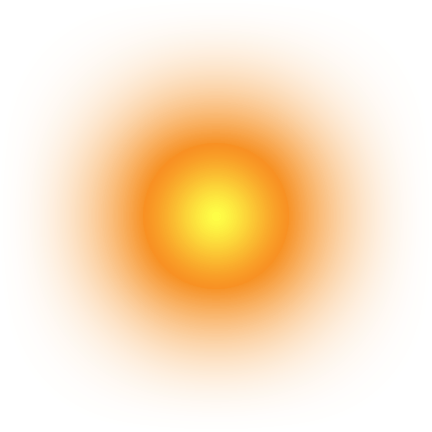
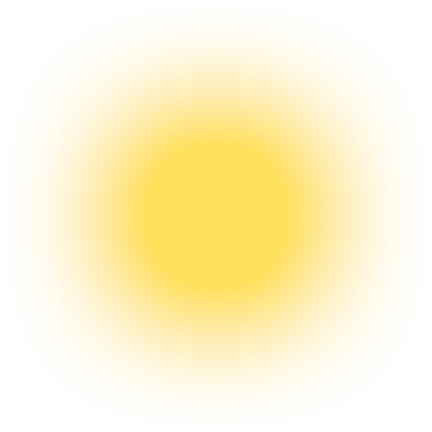
fix: relative start positions, move with transform & better sun image

Changed region(s): [[0.1806, 0.1806, 0.8125, 0.8125]]

diff --git a/index.js b/index.js
@@ -4,21 +4,16 @@ const pig = document.getElementById('pig')
 const field = document.getElementById('field')
 const question = document.querySelector('.question')
 
+const transform = (el, scrollY, factorX = 0, factorY = 0) =>
+  (el.style.transform = `translateX(${scrollY *
+    factorX}px) translateY(${scrollY * factorY}px)`)
+
 function move () {
-  const value = window.scrollY
+  const { scrollY, innerHeight: windowHeight } = window
 
-  sky.style.top = -value * 0.5 + 'px'
-
-  sun.style.right = value * 0.1 + 'px'
-  sun.style.top = value * 0.5 + 'px'
-
-  field.style.top = -value * 0.5 + 'px'
-
-  if (question.style.top <= window.innerHeight)
-    question.style.top = value + 'px'
-
-  pig.style.left = 300 + value * 0.7 + 'px'
-  pig.style.top = 910 + -value * 0.3 + 'px'
+  transform(sun, scrollY, -0.2, 0.5)
+  transform(pig, scrollY, 0.7, 0.3)
+  transform(question, scrollY, 0, 0.9)
 }
 
 window.addEventListener('scroll', move)

diff --git a/sass/_hero.sass b/sass/_hero.sass
@@ -38,9 +38,19 @@
     max-height: 150px
     width: auto
     height: auto
-    top: 910px
-    left: 300px
+    top: 70vh
+    left: 15vw
     z-index: 3
+
+  .question
+    position: relative
+    font:
+      family: menlo
+      weight: semibold
+    margin-top: 35vh
+    color: $gray-50
+    font-size: 2.8rem
+    z-index: 1
 
   // &::before
   //   @extend %transition
@@ -57,13 +67,3 @@
   //   height: 100%
   //   background: $gray-50
   //   mix-blend-mode: color
-
-  .question
-    position: relative
-    font:
-      family: menlo
-      weight: semibold
-    margin-top: 35%
-    color: #fff
-    font-size: 2.8rem
-    z-index: 1

diff --git a/css/styles.css b/css/styles.css
@@ -15,7 +15,7 @@ body {
   width: 100%;
 }
 .main h2 {
-  margin-top: 400px;
+  margin-top: 550px;
   font-size: 8rem;
   color: pink;
 }
@@ -53,16 +53,16 @@ body {
   max-height: 150px;
   width: auto;
   height: auto;
-  top: 910px;
-  left: 300px;
+  top: 70vh;
+  left: 15vw;
   z-index: 3;
 }
 .hero .question {
   position: relative;
   font-family: menlo;
   font-weight: semibold;
-  margin-top: 35%;
-  color: #fff;
+  margin-top: 35vh;
+  color: #F9FAFB;
   font-size: 2.8rem;
   z-index: 1;
 }

diff --git a/sass/_base.sass b/sass/_base.sass
@@ -15,6 +15,6 @@ body
   width: 100%
 
   h2
-    margin-top: 400px
+    margin-top: 550px
     font-size: 8rem
     color: pink
